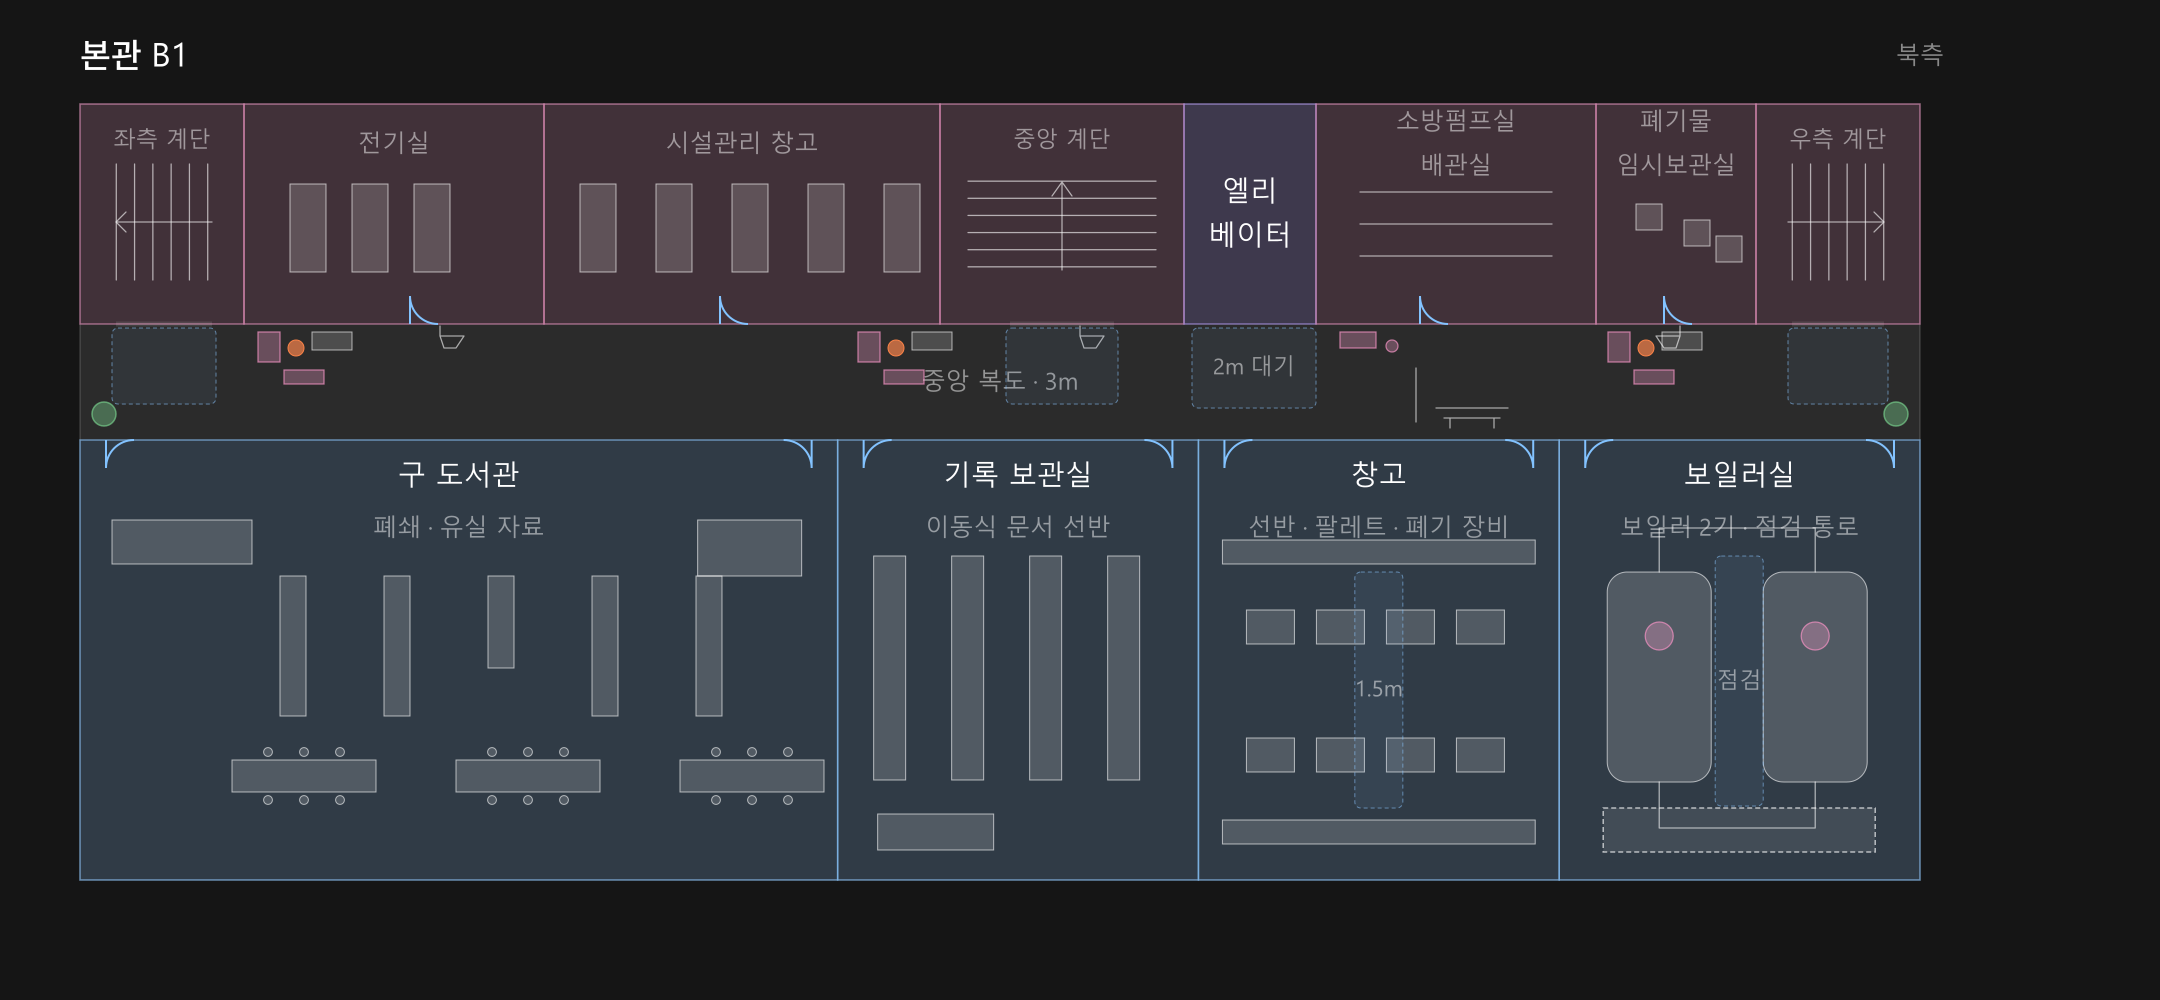
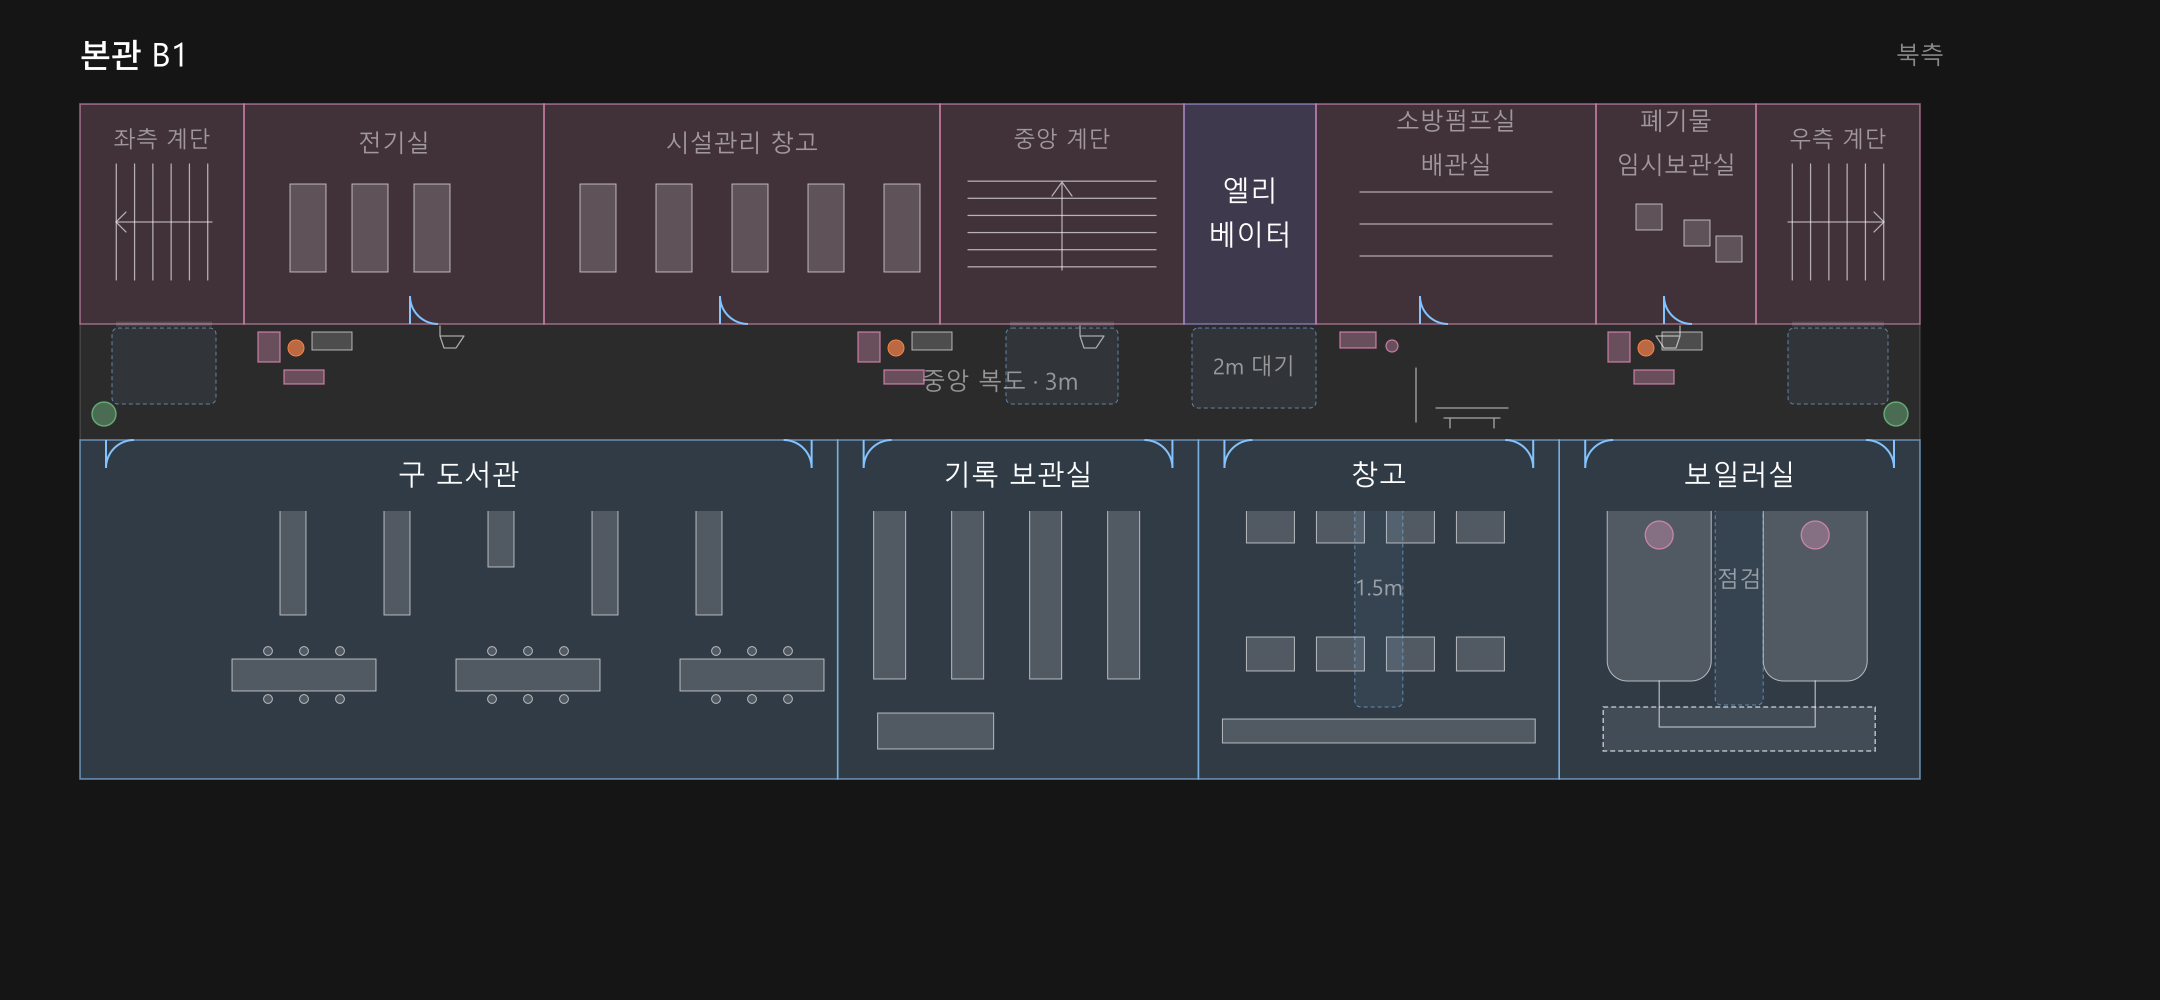
docs: 맵 레퍼런스 도면을 새 본관 구조(교실 9m x 8m, 깊이 16.1m)에 맞게 수정
- 03~05 본관 2~4층: 남쪽 교실 줄을 새 칸 경계로 다시 그림 (기존 그림체·색 유지).
  책상은 맵과 같은 5열 x 6줄 배치에 반별 학생 수만큼, 2-6은 남는 책상 강조, 자습실은 층별 새 구성
- 01·02 지하 1층·1층, 06 옥상: 그림이 없는 줄만 골라 지워 남쪽 동 깊이를 2.4m 줄임
- 04 3층 '존재하지 않는 교실' 표시도 같은 깊이로, 00 전체 배치도는 본관 앞면을 당기고 "약 60m x 16.1m"로 표기
- 구현 가이드 문서의 본관 크기 표기 갱신 (60 x 18.5m -> 60 x 16.1m)

Claude-Session: https://claude.ai/code/session_01Dj1uRrv22dEvSuTosf3do2

diff --git a/기획서/06.챕터1_학교/학교_맵_Godot_Codex_구현_가이드.md b/기획서/06.챕터1_학교/학교_맵_Godot_Codex_구현_가이드.md
@@ -172,7 +172,7 @@ Phase 0에서 각 파일에 대해 아래를 기록한다.
 ## 4-3. 이번 버전의 확정값
 
 - 전체 부지: 약 `190m × 140m`
-- 본관: 약 `60m × 18.5m`, 지상 4층 + 지하 1층 + 옥상
+- 본관: 약 `60m × 16.1m` (교실 9m × 8m 재구획 반영), 지상 4층 + 지하 1층 + 옥상
 - 운동장: 약 `70m × 45m`
 - 강당: 약 `40m × 26m`, 운동장 남측 중앙
 - 야외 농구장: 서·동 각각 약 `28m × 15m`
@@ -301,7 +301,7 @@ Debug
 ## 6-2. 확정 수치
 
 - 전체 부지: 약 `190m × 140m`
-- 본관: 약 `60m × 18.5m`
+- 본관: 약 `60m × 16.1m`
 - 운동장: 약 `70m × 45m`
 - 강당: 약 `40m × 26m`
 - 서·동 농구장: 각각 약 `28m × 15m`
@@ -1143,7 +1143,7 @@ Codex는 단계가 끝날 때마다 아래 양식으로 보고한다.
 확정값:
 - 전체 부지 약 190m × 140m
 - 운동장 약 70m × 45m
-- 본관 약 60m × 18.5m
+- 본관 약 60m × 16.1m
 - 강당 약 40m × 26m
 - 본관 1F 대지 Y=3.8
 - 별관 1F·운동장·강당 1F Y=0

diff --git a/기획서/06.챕터1_학교/맵 구현 문서/학교맵_재구축.md b/기획서/06.챕터1_학교/맵 구현 문서/학교맵_재구축.md
@@ -40,7 +40,7 @@
 2. **실제 공간 크기 (기획서 우선)**:
    - 캐릭터가 실제로 걷고, 달리고, 탐색하는 **실내 방, 복도, 계단, 운동장, 건물 외형**은 기획서의 실측 미터 수치를 100% 기준으로 제작한다.
    - **운동장**: `70.0m (X, 동서) × 45.0m (Z, 남북)`로 엄격 고정.
-   - **본관 (Main Building)**: `60.0m (X) × 18.5m (Z)` (지상 4층, 높이 15.2m, 층고 3.8m, 1층 바닥 Y=+3.8m 단차).
+   - **본관 (Main Building)**: `60.0m (X) × 18.5m (Z)` → 교실 재구획 후 `60.0m × 16.1m` (남쪽 앞면 z -44.75 → -47.15) (지상 4층, 높이 15.2m, 층고 3.8m, 1층 바닥 Y=+3.8m 단차).
    - **별관 (Annex)**: `20.0m (X) × 50.0m (Z)` (지상 3층, 높이 11.4m, 1층 바닥 Y=0.0m).
    - **체육관 (Gym)**: `40.0m (X) × 26.0m (Z)` (단층/복층고 8.5m, 1층 바닥 Y=0.0m).
    - **부지 크기**: `190.0m (X) × 140.0m (Z)`.

diff --git a/기획서/01. 기획 및 시스템/Project_Velka_Godot_구현_가이드.md b/기획서/01. 기획 및 시스템/Project_Velka_Godot_구현_가이드.md
@@ -100,7 +100,7 @@ scripts/school/
 | --- | ---: |
 | 전체 부지 | 190 × 140m |
 | 운동장 | 70 × 45m |
-| 본관 | 60 × 18.5m |
+| 본관 | 60 × 16.1m (교실 재구획으로 18.5m에서 줄임: 남쪽 교실 줄 깊이 8.0m) |
 | 별관 | 20 × 50m |
 | 체육관 | 40 × 26m |
 | 기본 층고 | 3.8m |
@@ -133,7 +133,7 @@ scripts/school/
 
 #### `MainBuildingMass.tscn`
 
-현재 PNG 기준으로 잡힌 약 80m 폭 외형을 제거하고 본관 외피를 **60×18.5m** 기준으로 변경한다.
+현재 PNG 기준으로 잡힌 약 80m 폭 외형을 제거하고 본관 외피를 **60×18.5m** 기준으로 변경한다. (이후 교실 재구획으로 **60×16.1m**가 되었다)
 
 #### `Phase1Validate.gd`
 
